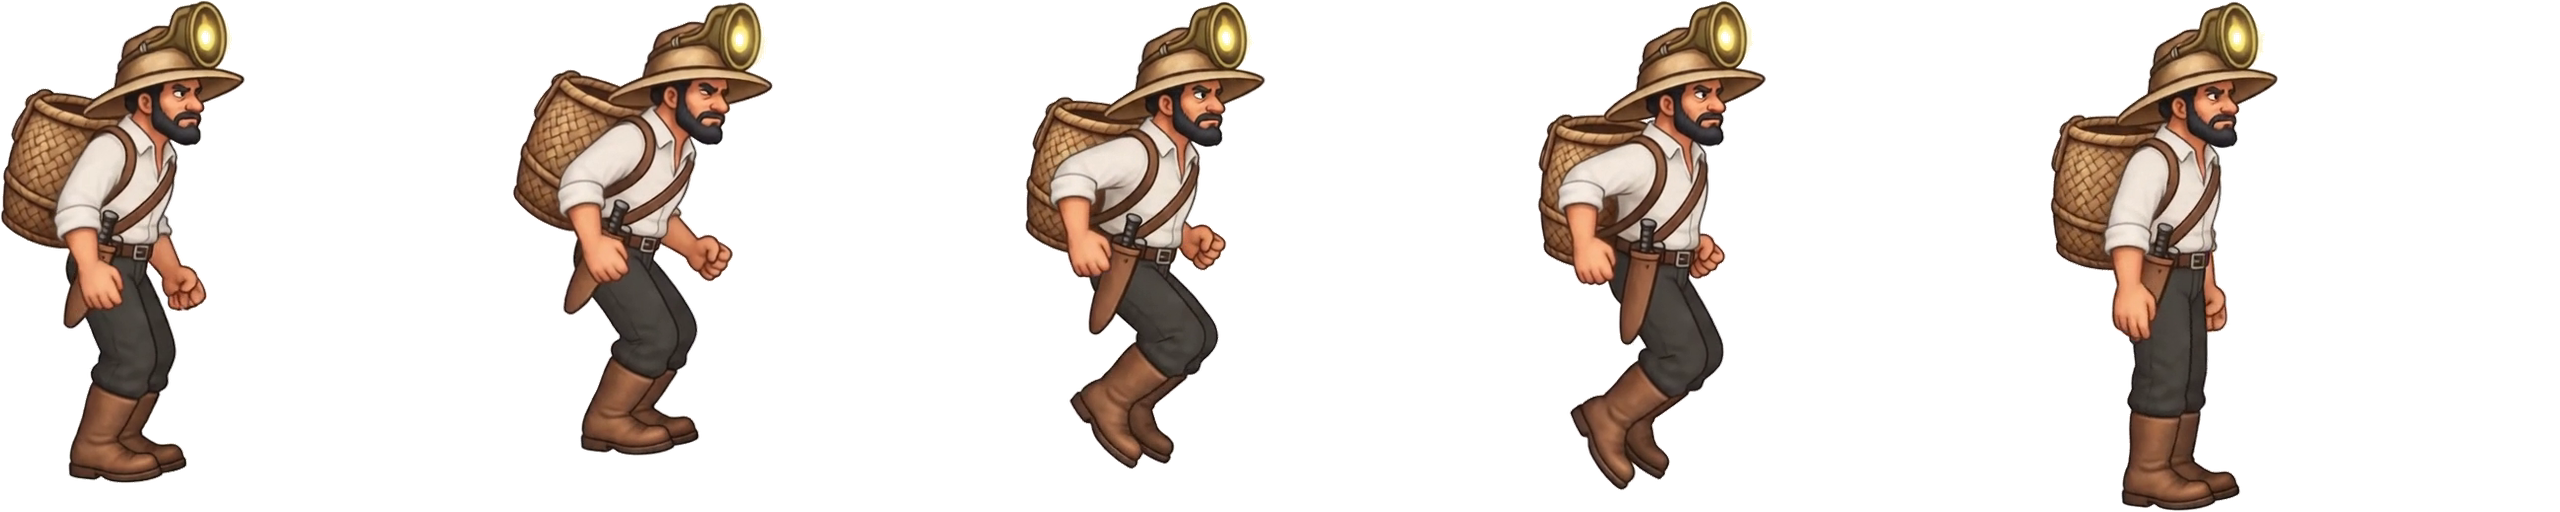
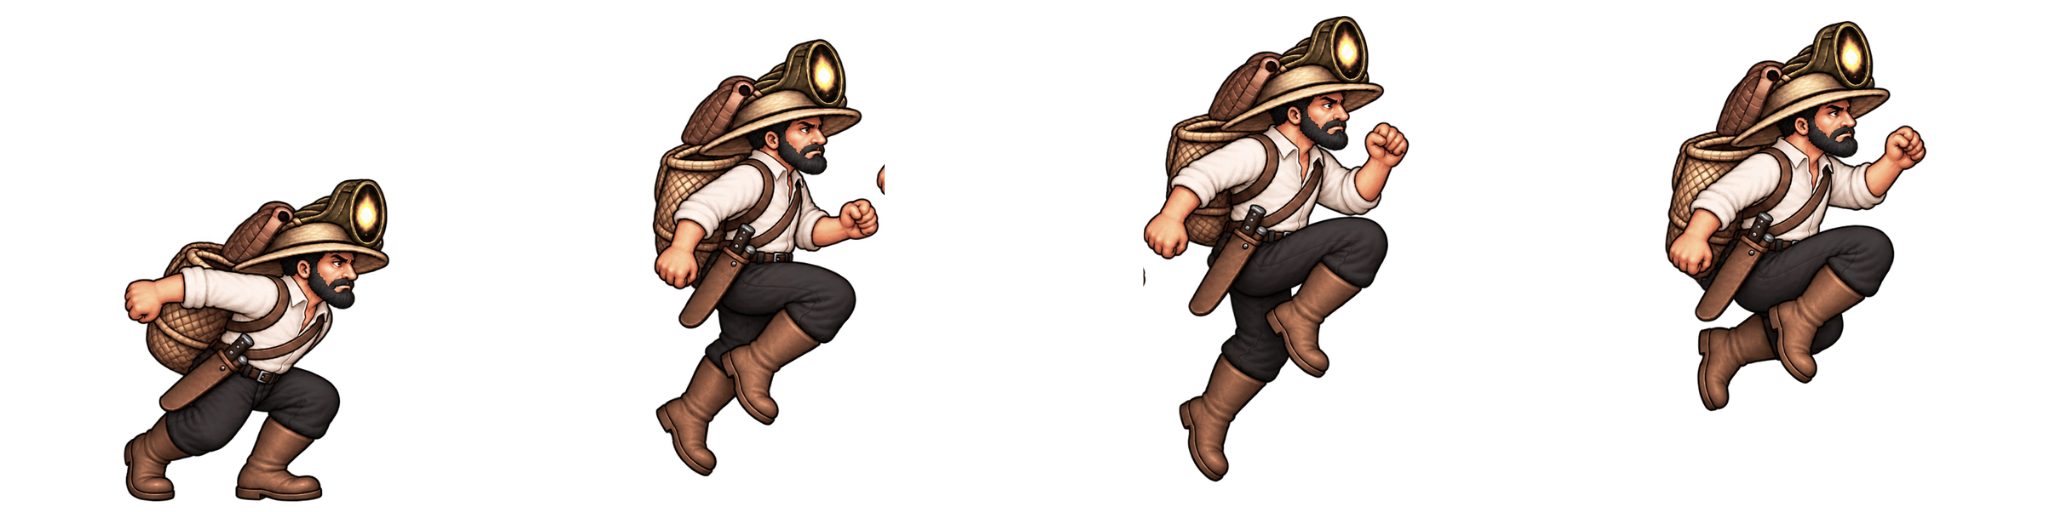
Integra animação real de jump do seringueiro

diff --git a/src/game/scenes/Level4Scene.js b/src/game/scenes/Level4Scene.js
@@ -1030,7 +1030,7 @@ export class Level4Scene extends Scene
                 if(this.attackSprite.texture.key!=='seringueiroJump')this.attackSprite.setTexture('seringueiroJump',0);
                 // A física continua controlando a altura; a velocidade vertical escolhe apenas a pose visual.
                 const velocityY=body.velocity.y;
-                let jumpFrame=4;
+                let jumpFrame=3;
                 if(velocityY<0)
                 {
                     if(velocityY<=-400)jumpFrame=0;
@@ -1038,7 +1038,7 @@ export class Level4Scene extends Scene
                     else if(velocityY<=-200)jumpFrame=2;
                     else if(velocityY<=-100)jumpFrame=3;
                 }
-                // Próximo do ápice e durante a descida, mantém temporariamente o frame 4.
+                // Próximo do ápice e durante a descida, mantém temporariamente o frame 3.
                 this.attackSprite.setFrame(jumpFrame);
             }
             else

diff --git a/src/game/scenes/Level5Scene.js b/src/game/scenes/Level5Scene.js
@@ -1628,7 +1628,7 @@ export class Level5Scene extends Scene
                 if(this.attackSprite.texture.key!=='seringueiroJump')this.attackSprite.setTexture('seringueiroJump',0);
                 // A física continua controlando a altura; a velocidade vertical escolhe apenas a pose visual.
                 const velocityY=body.velocity.y;
-                let jumpFrame=4;
+                let jumpFrame=3;
                 if(velocityY<0)
                 {
                     if(velocityY<=-400)jumpFrame=0;
@@ -1636,7 +1636,7 @@ export class Level5Scene extends Scene
                     else if(velocityY<=-200)jumpFrame=2;
                     else if(velocityY<=-100)jumpFrame=3;
                 }
-                // Próximo do ápice e durante a descida, mantém temporariamente o frame 4.
+                // Próximo do ápice e durante a descida, mantém temporariamente o frame 3.
                 this.attackSprite.setFrame(jumpFrame);
             }
             else

diff --git a/src/game/scenes/Level2Scene.js b/src/game/scenes/Level2Scene.js
@@ -773,7 +773,7 @@ export class Level2Scene extends Scene
                 if(this.attackSprite.texture.key!=='seringueiroJump')this.attackSprite.setTexture('seringueiroJump',0);
                 // A física continua controlando a altura; a velocidade vertical escolhe apenas a pose visual.
                 const velocityY=body.velocity.y;
-                let jumpFrame=4;
+                let jumpFrame=3;
                 if(velocityY<0)
                 {
                     if(velocityY<=-400)jumpFrame=0;
@@ -781,7 +781,7 @@ export class Level2Scene extends Scene
                     else if(velocityY<=-200)jumpFrame=2;
                     else if(velocityY<=-100)jumpFrame=3;
                 }
-                // Próximo do ápice e durante a descida, mantém temporariamente o frame 4.
+                // Próximo do ápice e durante a descida, mantém temporariamente o frame 3.
                 this.attackSprite.setFrame(jumpFrame);
             }
             else

diff --git a/src/game/scenes/Level3Scene.js b/src/game/scenes/Level3Scene.js
@@ -749,7 +749,7 @@ export class Level3Scene extends Scene
                 if(this.attackSprite.texture.key!=='seringueiroJump')this.attackSprite.setTexture('seringueiroJump',0);
                 // A física continua controlando a altura; a velocidade vertical escolhe apenas a pose visual.
                 const velocityY=body.velocity.y;
-                let jumpFrame=4;
+                let jumpFrame=3;
                 if(velocityY<0)
                 {
                     if(velocityY<=-400)jumpFrame=0;
@@ -757,7 +757,7 @@ export class Level3Scene extends Scene
                     else if(velocityY<=-200)jumpFrame=2;
                     else if(velocityY<=-100)jumpFrame=3;
                 }
-                // Próximo do ápice e durante a descida, mantém temporariamente o frame 4.
+                // Próximo do ápice e durante a descida, mantém temporariamente o frame 3.
                 this.attackSprite.setFrame(jumpFrame);
             }
             else

diff --git a/src/game/scenes/Game.js b/src/game/scenes/Game.js
@@ -1063,7 +1063,7 @@ export class Game extends Scene
                 if(this.attackSprite.texture.key!=='seringueiroJump')this.attackSprite.setTexture('seringueiroJump',0);
                 // A física continua controlando a altura; a velocidade vertical escolhe apenas a pose visual.
                 const velocityY=body.velocity.y;
-                let jumpFrame=4;
+                let jumpFrame=3;
                 if(velocityY<0)
                 {
                     if(velocityY<=-400)jumpFrame=0;
@@ -1071,7 +1071,7 @@ export class Game extends Scene
                     else if(velocityY<=-200)jumpFrame=2;
                     else if(velocityY<=-100)jumpFrame=3;
                 }
-                // Próximo do ápice e durante a descida, mantém temporariamente o frame 4.
+                // Próximo do ápice e durante a descida, mantém temporariamente o frame 3.
                 this.attackSprite.setFrame(jumpFrame);
             }
             else

diff --git a/src/game/scenes/Preloader.js b/src/game/scenes/Preloader.js
@@ -36,7 +36,7 @@ export class Preloader extends Scene
         this.load.spritesheet('seringueiroAttack', 'attack.png', { frameWidth: 512, frameHeight: 512, endFrame: 7 });
         this.load.spritesheet('seringueiroIdle', 'idle.png', { frameWidth: 512, frameHeight: 512, endFrame: 7 });
         this.load.spritesheet('seringueiroWalk', 'walk.png?v=walk-080-y480-20260930', { frameWidth: 512, frameHeight: 512, endFrame: 5 });
-        this.load.spritesheet('seringueiroJump', 'jump.png', { frameWidth: 512, frameHeight: 512, endFrame: 4 });
+        this.load.spritesheet('seringueiroJump', 'jump.png', { frameWidth: 512, frameHeight: 512, endFrame: 3 });
         this.load.spritesheet('seringueiroDash', 'dash.png', { frameWidth: 512, frameHeight: 512, endFrame: 4 });
         this.load.spritesheet('seringueiroLanding', 'landing.png', { frameWidth: 512, frameHeight: 512, endFrame: 1 });
     }
